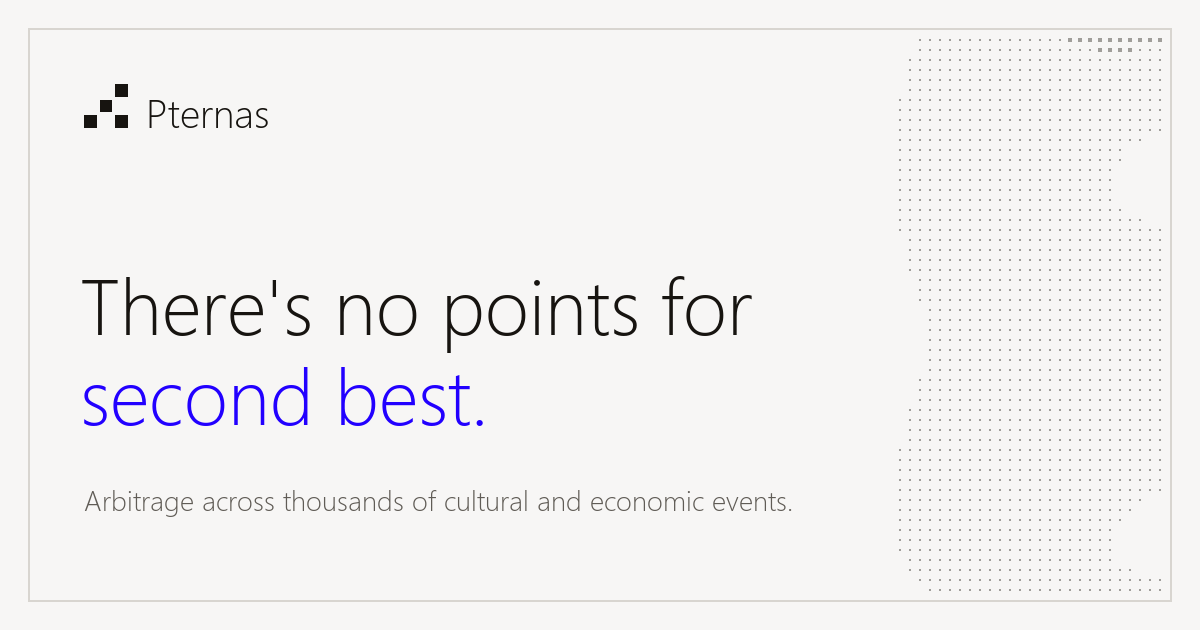
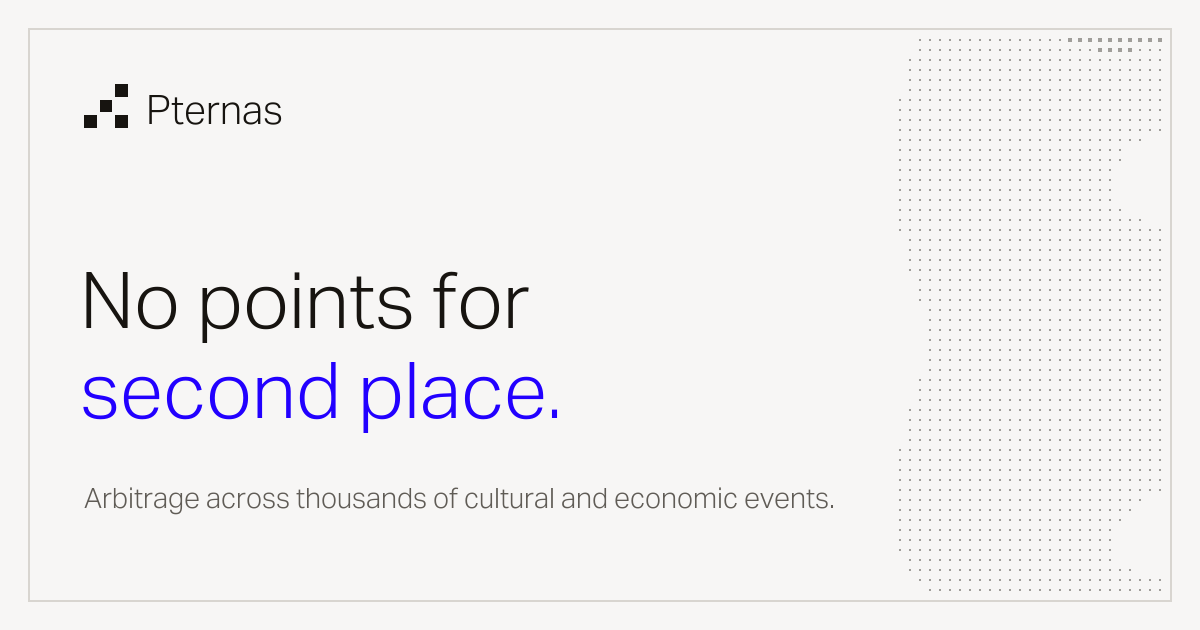
Tagline: No points for second place.

diff --git a/dashboard/index.html b/dashboard/index.html
@@ -21,16 +21,16 @@
 <meta property="og:type" content="website">
 <meta property="og:site_name" content="Pternas">
 <meta property="og:url" content="https://pternas.com/">
-<meta property="og:title" content="Pternas &middot; There are no points for second best.">
+<meta property="og:title" content="Pternas &middot; No points for second place.">
 <meta property="og:description" content="Prediction market relationship arbitrage: a frontier classification model finds logically linked Kalshi and Polymarket markets, then paper-trades mispricings.">
-<meta property="og:image" content="https://pternas.com/assets/brand/og-image.png">
+<meta property="og:image" content="https://pternas.com/assets/brand/og-image.png?v=2">
 <meta property="og:image:width" content="1200">
 <meta property="og:image:height" content="630">
-<meta property="og:image:alt" content="Pternas: There are no points for second best.">
+<meta property="og:image:alt" content="Pternas: No points for second place.">
 <meta name="twitter:card" content="summary_large_image">
-<meta name="twitter:title" content="Pternas &middot; There are no points for second best.">
+<meta name="twitter:title" content="Pternas &middot; No points for second place.">
 <meta name="twitter:description" content="Prediction market relationship arbitrage: a frontier classification model finds logically linked Kalshi and Polymarket markets, then paper-trades mispricings.">
-<meta name="twitter:image" content="https://pternas.com/assets/brand/og-image.png">
+<meta name="twitter:image" content="https://pternas.com/assets/brand/og-image.png?v=2">
 
 <script type="application/ld+json">
 {
@@ -44,7 +44,7 @@
      "name": "Pternas",
      "description": "Prediction market relationship arbitrage: a frontier classification model finds logically linked Kalshi and Polymarket markets, then paper-trades mispricings.",
      "isPartOf": {"@id": "https://pternas.com/#site"}, "about": {"@id": "https://pternas.com/#org"},
-     "primaryImageOfPage": "https://pternas.com/assets/brand/og-image.png", "inLanguage": "en"}
+     "primaryImageOfPage": "https://pternas.com/assets/brand/og-image.png?v=2", "inLanguage": "en"}
   ]
 }
 </script>
@@ -87,7 +87,7 @@
     <section class="hero" data-reveal aria-labelledby="hero-title">
       <canvas class="hero-dots" id="dots" aria-hidden="true"></canvas>
       <div class="hero-copy">
-        <h1 id="hero-title">There are no <span class="nowrap">points for</span><br><em>second best.</em></h1>
+        <h1 id="hero-title">No points for<br><em>second place.</em></h1>
         <p class="hero-desc">Pternas is an arbitrage engine that uses frontier classification models to cross compare thousands of cultural and economic events in real time, finding discrepancies and violations with unmatched speed.</p>
         <div class="lcd-wrap">
           <span class="lcd-sign num" id="pnl-sign">+</span>

diff --git a/scripts/make_brand_assets.py b/scripts/make_brand_assets.py
@@ -101,8 +101,8 @@ def og_image(font_path: str | None) -> Image.Image:
     d.text((146, 84), "Pternas", font=load_font(font_path, 40), fill=INK)
 
     headline = load_font(font_path, 78)
-    d.text((80, 250), "There are no points for", font=headline, fill=INK)
-    d.text((80, 340), "second best.", font=headline, fill=ACCENT)
+    d.text((80, 250), "No points for", font=headline, fill=INK)
+    d.text((80, 340), "second place.", font=headline, fill=ACCENT)
     d.text((84, 480), "Arbitrage across thousands of cultural and economic events.",
            font=load_font(font_path, 28), fill=(96, 92, 86))
     return img
